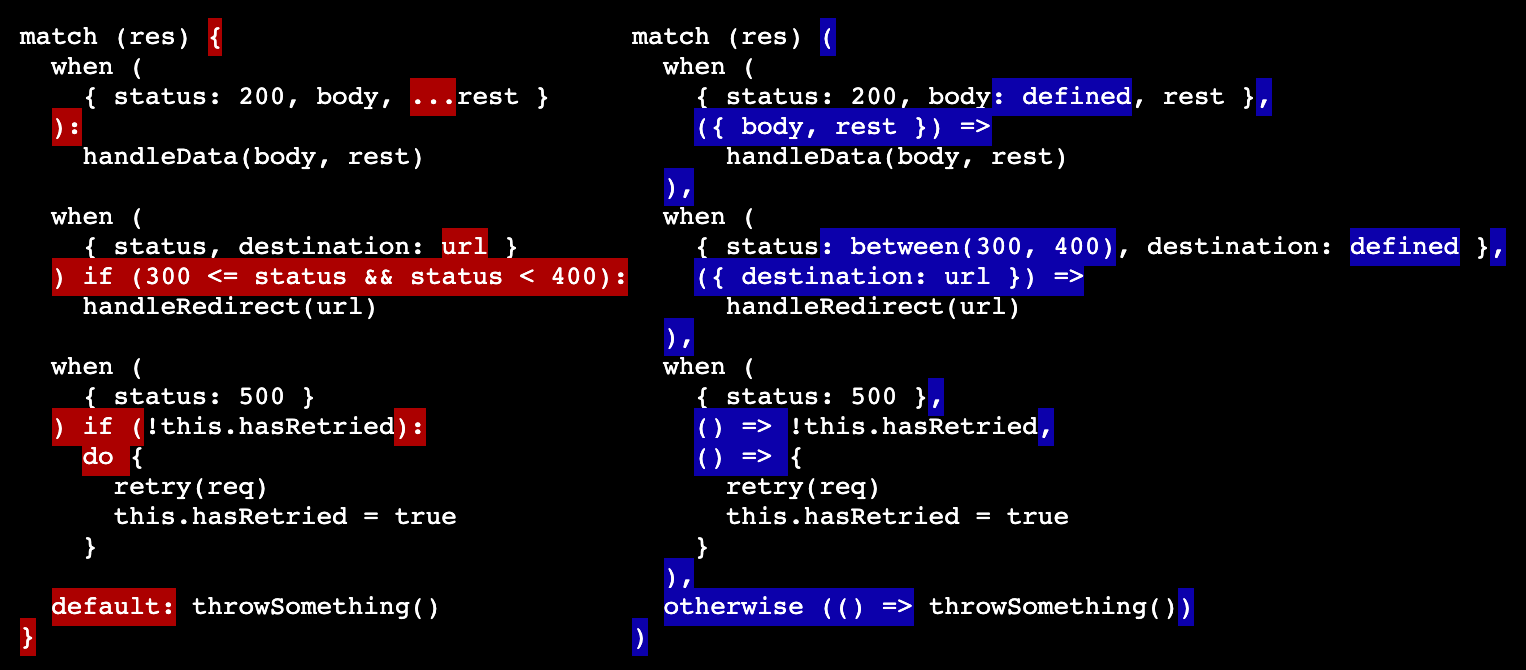
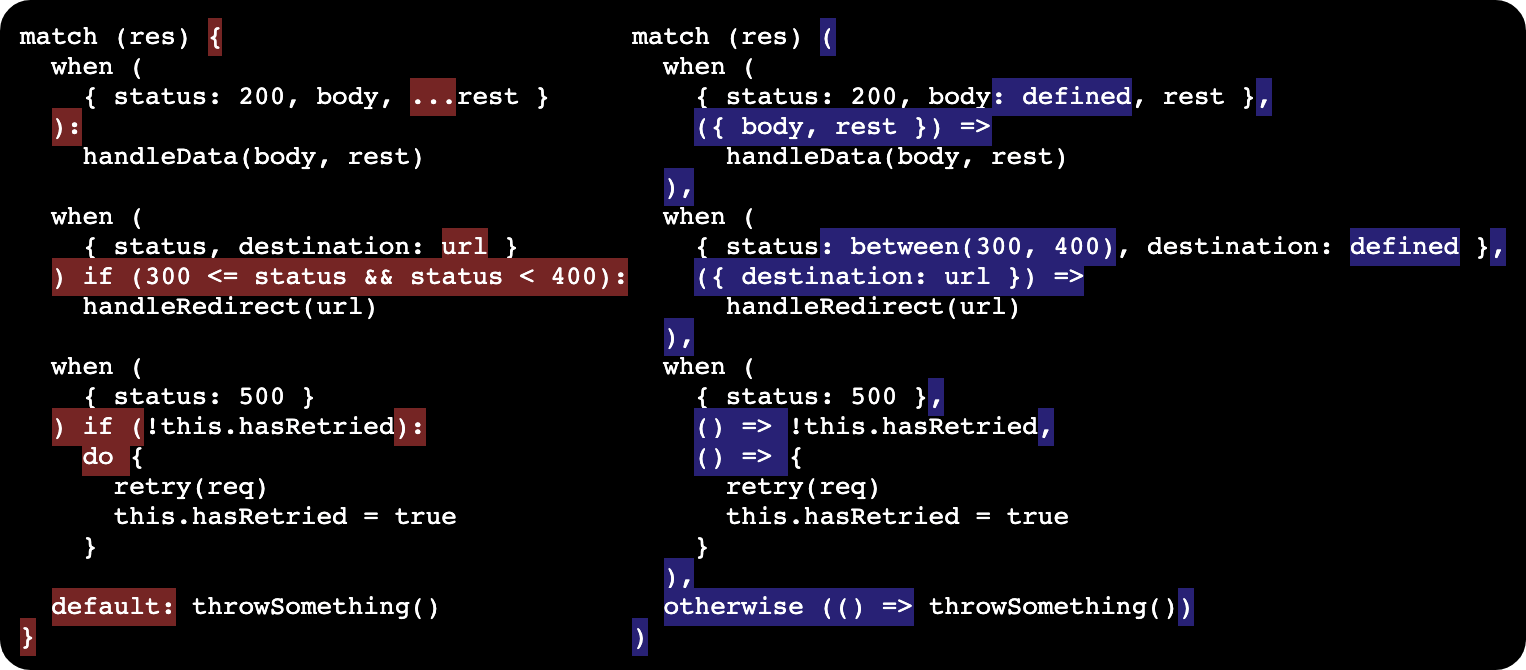
desat image

diff --git a/tc39-proposal-pattern-matching/comparison.jsx b/tc39-proposal-pattern-matching/comparison.jsx
@@ -6,7 +6,7 @@ const Del = ({ children }) => (
     style={{
       paddingTop: '1px',
       paddingBottom: '3px',
-      background: 'hsl(0, 100%, 33%)',
+      background: 'hsl(0, 50%, 30%)',
     }}
   >
     {children}
@@ -17,7 +17,7 @@ const Add = ({ children }) => (
     style={{
       paddingTop: '1px',
       paddingBottom: '3px',
-      background: 'hsl(240, 100%, 33%)',
+      background: 'hsl(240, 50%, 30%)',
     }}
   >
     {children}
